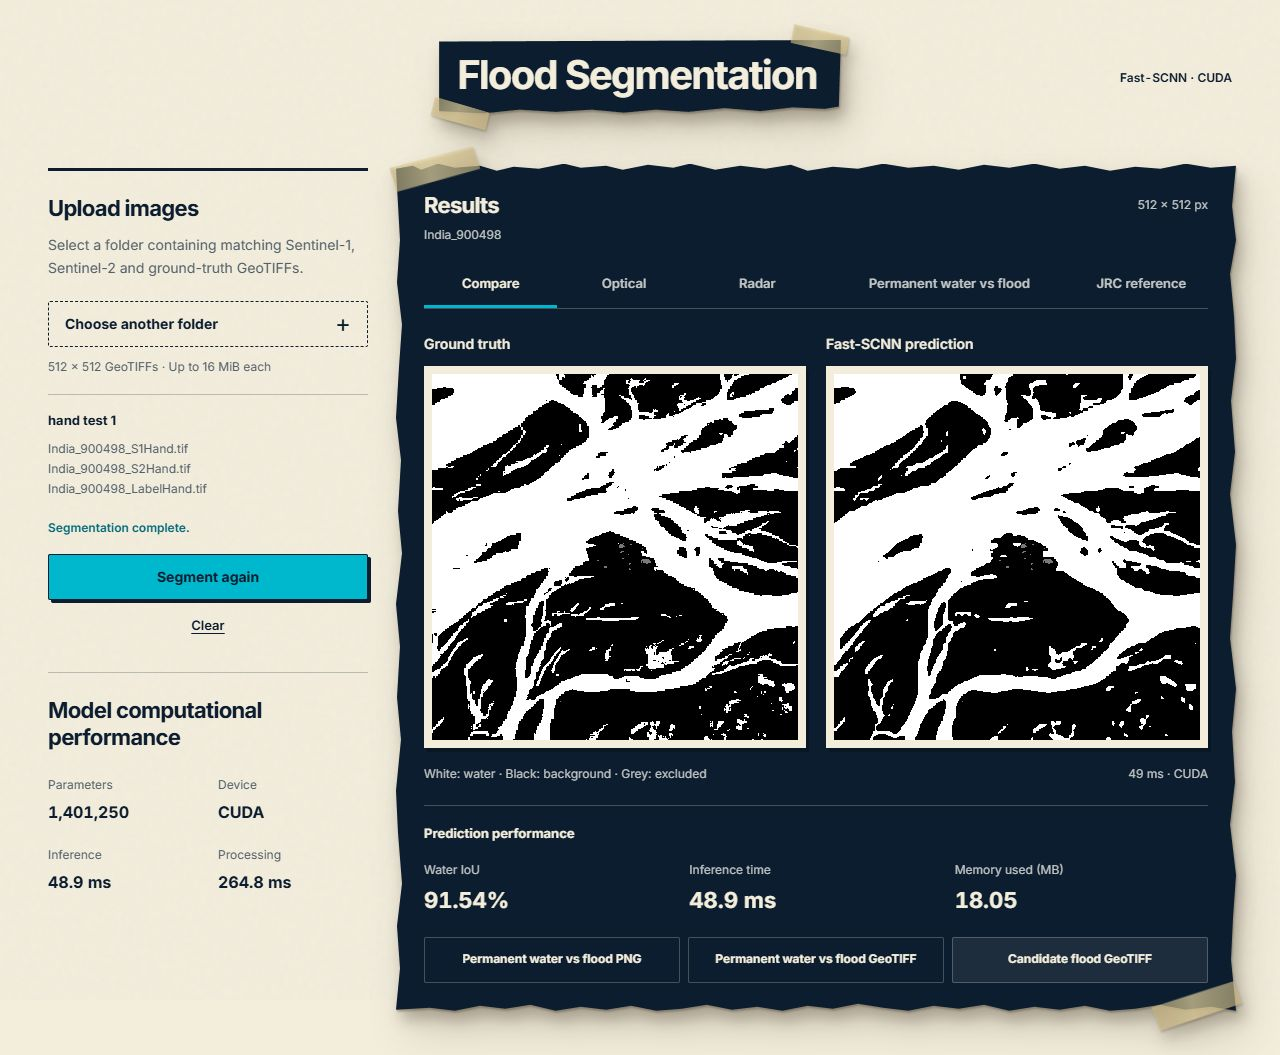
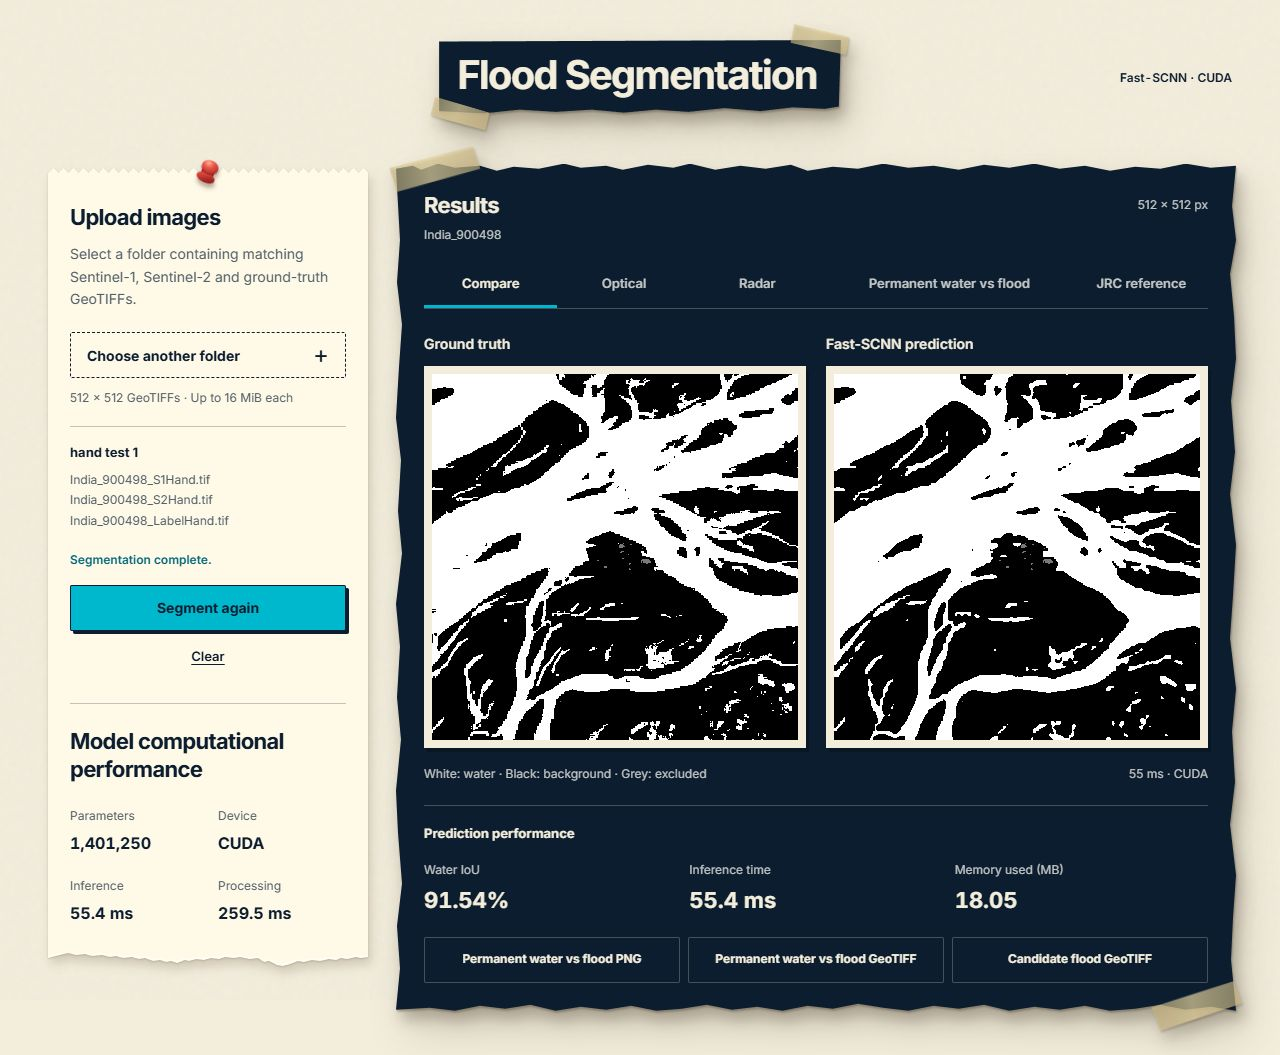
Show one current, versioned dashboard image in the README

diff --git a/README.md b/README.md
@@ -9,7 +9,7 @@ permanent-water reference. **Permanent water vs flood** shows a solid mask with
 blue detected permanent water and red candidate floodwater. Start with one of
 the ten triplets under `hand test/`.
 
-![Fast-SCNN dashboard with a pinned upload panel and side-by-side ground truth and predicted water masks for India_900498](docs/screenshots/demo.png)
+![Fast-SCNN dashboard with a pinned upload panel and side-by-side ground truth and predicted water masks for India_900498](docs/screenshots/demo-70ce4c179e3c.png)
 
 ## Run with Docker
 
@@ -84,8 +84,6 @@ Comparison scores cover the full 512 × 512 image, using only pixels valid in bo
 Ground truth is used only for scoring and display, never as model input. Uploads remain temporary. Upload and segmentation controls are disabled during validation or prediction. Historical 256 × 256 centre-crop scores stay separate from these uploaded-image scores. Prediction exports retain the original model mask; the grey comparison exclusion display does not alter exported predictions.
 
 Each Hand Test file may be up to 16 MiB, with 48 MiB total TIFF content plus bounded multipart overhead. The ground truth must be a single-band GeoTIFF with matching tile ID, 512 × 512 dimensions, coordinate system and grid. No resizing or reprojection is performed.
-
-![Actual ground-truth comparison](docs/screenshots/hand-test-desktop.jpg)
 
 ### Satellite input requirements
 

diff --git a/AGENTS.md b/AGENTS.md
@@ -1,3 +1,3 @@
 # Pushes to main
 
-When the user asks to push changes to `main`, include a fresh app screenshot in the README in the same push. Capture the running version being pushed, using a completed prediction from `hand test/hand test 1` in the Compare view. Save it to `docs/screenshots/demo.png` and verify the README displays it.
+When the user asks to push changes to `main`, capture the running version with a completed prediction from `hand test/hand test 1` in the Compare view. Save the screenshot as `docs/screenshots/demo-<first 12 hex digits of the PNG SHA-256>.png`. Replace the README's single app image with that file in the same push and verify the link. Keep additional device previews as text links.
